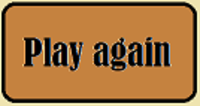
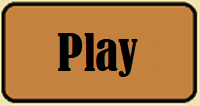
Main menu and rules

Changed region(s): [[0.09, 0.3113, 0.87, 0.7358]]

diff --git a/Flying_frogs/GUI.py b/Flying_frogs/GUI.py
@@ -14,28 +14,37 @@ clock = pygame.time.Clock()
 Scorefont = pygame.font.Font('freesansbold.ttf', 32)
 lose = False
 comp = False
+introduction = True
 
-def redraw(): 
-    win.blit(bg, (0,0))
-
-    if lose:
-        win.blit(pygame.image.load('LoseBox.png'), (276, 161))
-        win.blit(pygame.image.load('PlayButton.png'), (playagain.x, playagain.y))
-    elif comp:
-        win.blit(pygame.image.load('WinBox.png'), (276, 161))
-        win.blit(playagain.image, (playagain.x, playagain.y))
+def redraw():
+    if introduction:
+        win.blit(pygame.image.load('Introduction.png'),(0,0))
+        win.blit(play.image, (play.x, play.y))
+        win.blit(rulesbutton.image, (rulesbutton.x, rulesbutton.y))
+    elif rules:
+        win.blit(pygame.image.load('Rules.png'),(0,0))
+        win.blit(back.image, (back.x, back.y))
     else:
-        for item in onscreen:
-            if item.movecount + 1 >= len(item.move)*10:
-                item.movecount = 0    
-            win.blit(item.move[item.movecount//10], (item.x,item.y))
-            #pygame.draw.rect(win,(225,0,0),item.hitbox,2)
-            item.movecount += 1
+        win.blit(bg, (0,0))
 
-    DisplayScore = Scorefont.render('Score: '+str(score), True, (0,0,0))
-    ScoreRect = DisplayScore.get_rect()
-    ScoreRect.center = (100,40)
-    win.blit(DisplayScore, ScoreRect)
+        if lose:
+            win.blit(pygame.image.load('LoseBox.png'), (276, 161))
+            win.blit(playagain.image, (playagain.x, playagain.y))
+        elif comp:
+            win.blit(pygame.image.load('WinBox.png'), (276, 161))
+            win.blit(playagain.image, (playagain.x, playagain.y))
+        else:
+            for item in onscreen:
+                if item.movecount + 1 >= len(item.move)*10:
+                    item.movecount = 0    
+                win.blit(item.move[item.movecount//10], (item.x,item.y))
+                #pygame.draw.rect(win,(225,0,0),item.hitbox,2)
+                item.movecount += 1
+
+        DisplayScore = Scorefont.render('Score: '+str(score), True, (0,0,0))
+        ScoreRect = DisplayScore.get_rect()
+        ScoreRect.center = (100,40)
+        win.blit(DisplayScore, ScoreRect)
 
     pygame.display.update()
     
@@ -58,13 +67,16 @@ class button(object):
         global onscreen
         global lose
         global comp
-        print('Click')
         onscreen = []
         score = 0
         lose = False
         comp = False
         
-playagain = button(pygame.image.load('PlayButton.png'), 200, 106, 365, 330)
+playagain = button(pygame.image.load('PlayAgainButton.png'), 200, 106, 365, 330)
+play = button(pygame.image.load('PlayButton.png'), 200, 106, 365, 450)
+back = button(pygame.image.load('Back.png'), 100, 82, 20, 150)
+rulesbutton = button(pygame.image.load('RulesButton.png'), 200, 106, 365, 250)
+
 #set up car object
 class car(object):
     #If electric
@@ -124,14 +136,16 @@ class car(object):
         onscreen.remove(self)
 
 #Replace these with actual cars. These are placeholders.
-ambulance = car(False, [pygame.image.load('1.png'), pygame.image.load('2.png'), pygame.image.load('3.png'), pygame.image.load('2.png')], 5, 225, 110, 3)
-policecar = car(True, [pygame.image.load('P1.png'),pygame.image.load('P2.png'),pygame.image.load('P3.png'),pygame.image.load('P2.png')], 10, 225, 110, 5)
+ambulance = car(False, [pygame.image.load('1.png'), pygame.image.load('2.png'), pygame.image.load('3.png'), pygame.image.load('2.png')], 5, 225, 110, 5)
+policecar = car(True, [pygame.image.load('P1.png'),pygame.image.load('P2.png'),pygame.image.load('P3.png'),pygame.image.load('P2.png')], 10, 225, 110, 3)
 vehicles = [ambulance, policecar]
        
 #main loop
+introduction = True
+rules = False
 run = True
 while run:
-    clock.tick(40)
+    clock.tick(50)
 
     for event in pygame.event.get():
         if event.type == pygame.QUIT:
@@ -141,7 +155,15 @@ while run:
             for i in onscreen:
                 if  b < i.hitbox[1] + i.hitbox[3] and b > i.hitbox[1] and a > i.hitbox[0] and a < i.hitbox[0] + i.hitbox[2]:
                     i.hit()
-            if lose or comp:
+            if introduction:
+                if playagain.y + playagain.height and b > playagain.y and a > playagain.x and a < playagain.x + playagain.width:
+                    playagain.pressed()
+                    introduction = False
+                elif rulesbutton.y + rulesbutton.height and b > rulesbutton.y and a > rulesbutton.x and a < rulesbutton.x + rulesbutton.width:
+                    introduction = False
+                    rules = True
+      
+            elif lose or comp:
                 if b < playagain.y + playagain.height and b > playagain.y and a > playagain.x and a < playagain.x + playagain.width:
                     playagain.pressed()
 
@@ -165,4 +187,3 @@ while run:
     redraw()
 
 pygame.quit()
-
